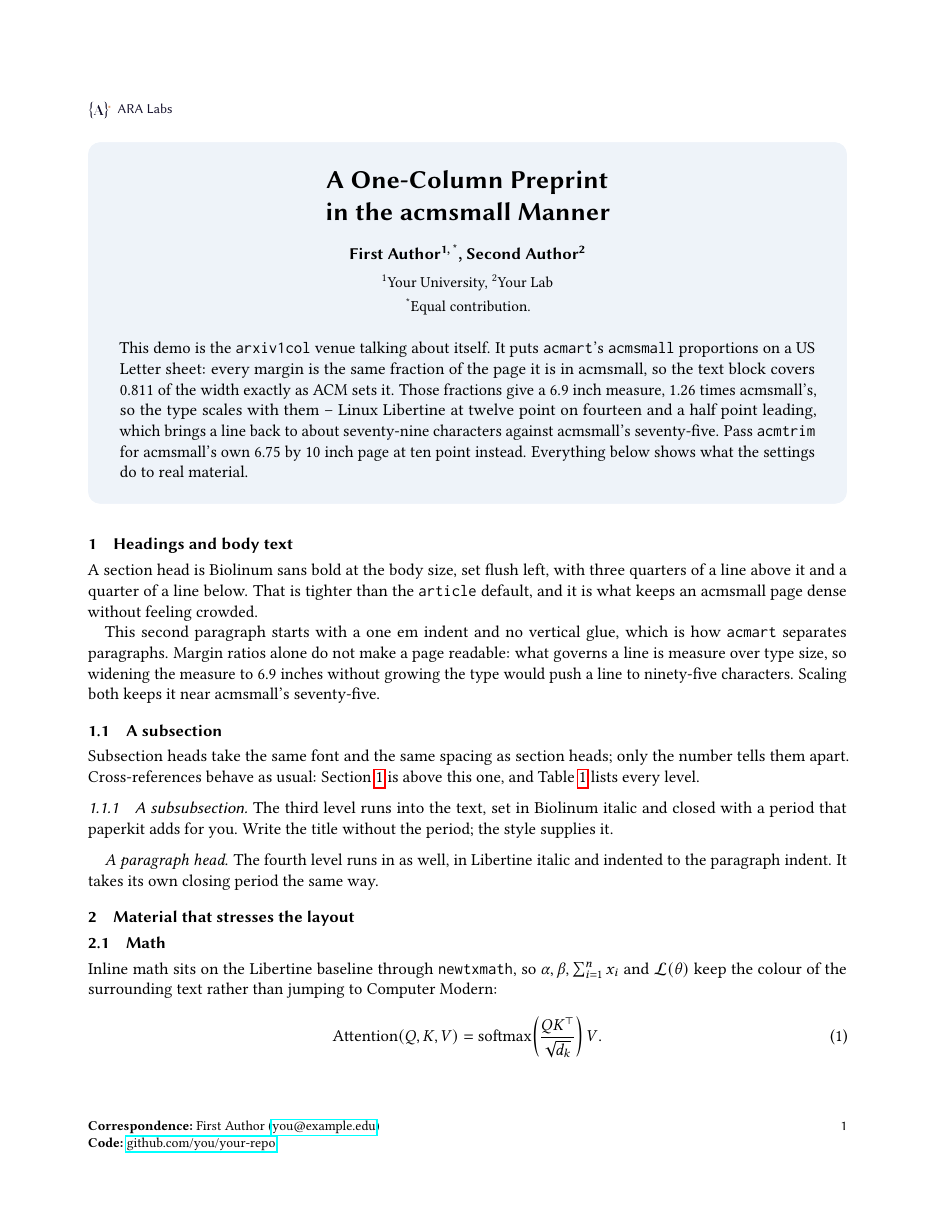
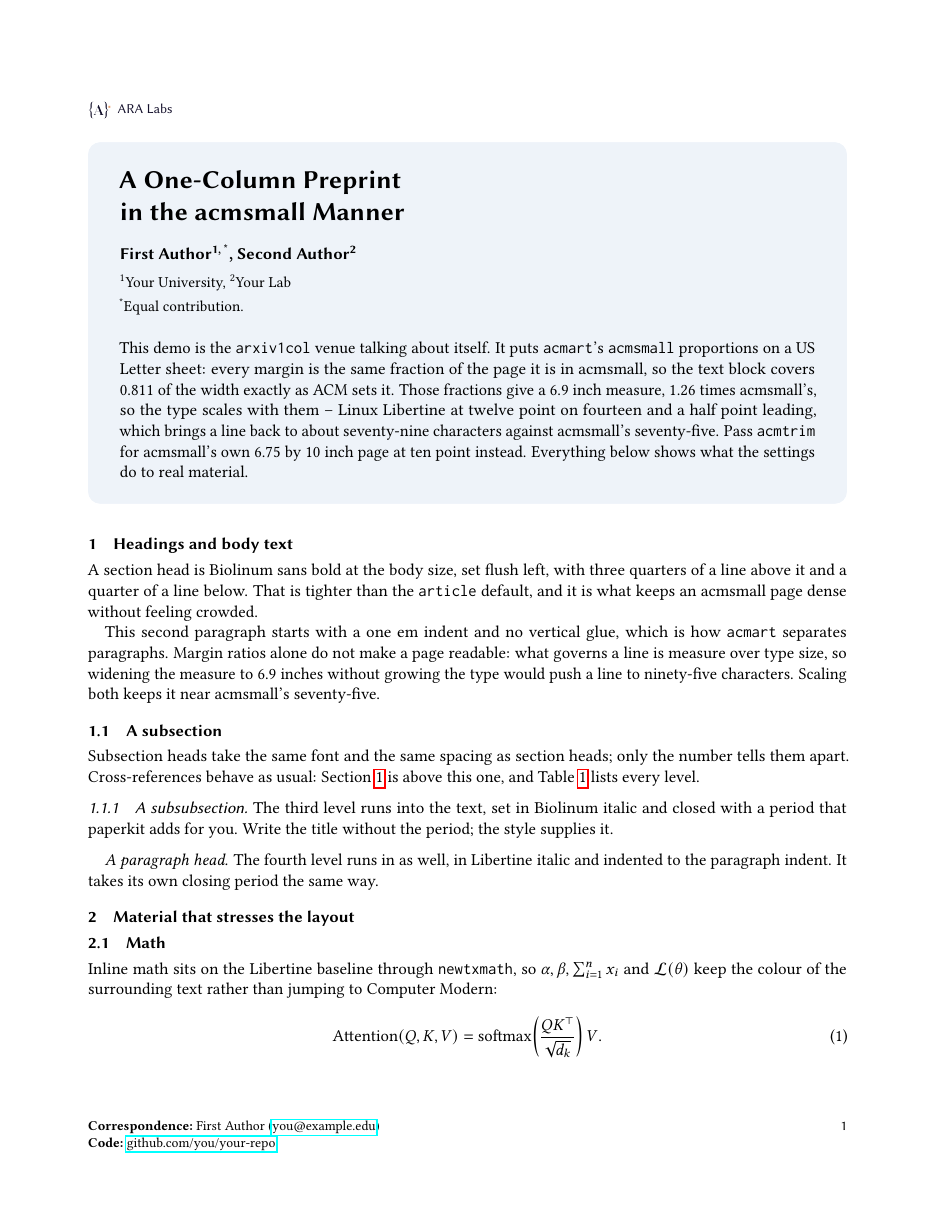
style(arxiv1col): restore the flush-left title and authors
Put the title, authors, affiliations, and note back flush left, which is
acmsmall's own arrangement and what the panel used before.

The abstract keeps its justification. That had been riding on the same
flag as the title alignment, so \paperheadalign{left} would have dragged
the abstract back to ragged with it; the two are separate now, the
abstract set by venue instead. \paperheadalign still centres the block
for anyone who wants it, without touching the abstract either way.

Changed region(s): [[0.1241, 0.1223, 0.6513, 0.2752]]

diff --git a/README.md b/README.md
@@ -184,17 +184,20 @@ show the page number alone, unless `\papercopyright` is set.
 
 ### The title block
 
-`arxiv1col` centres the title, authors, affiliations, and note, and justifies
-the abstract beneath them -- the arrangement the one-column preprints this
-venue is modelled on use. The panel ends at the abstract; there is no footer
-row, since the emails are at the foot of the page and the brand is in the head.
+The title, authors, affiliations, and note are flush left, as in acmsmall. The
+abstract below them is justified, which is the one departure from the
+two-column `arxiv` panel -- that one keeps its ragged right. The panel ends at
+the abstract: there is no footer row, since the emails are at the foot of the
+page and the brand is in the head.
 
-The two-column `arxiv` panel is unchanged: flush left, ragged abstract, and the
-correspondence, code, and logos in its footer. Override either with:
+Centre the block instead with:
 
 ```latex
-\paperheadalign{center}   % or {left}
+\paperheadalign{center}   % or {left}, the default
 ```
+
+This moves the title, authors, affiliations, and note only. Abstract
+justification is set per venue and does not follow it.
 
 Left unset, `\paperbrand` borrows whatever `\paperlogo` already holds. The
 colours come from the ARA mark and are overridable:
